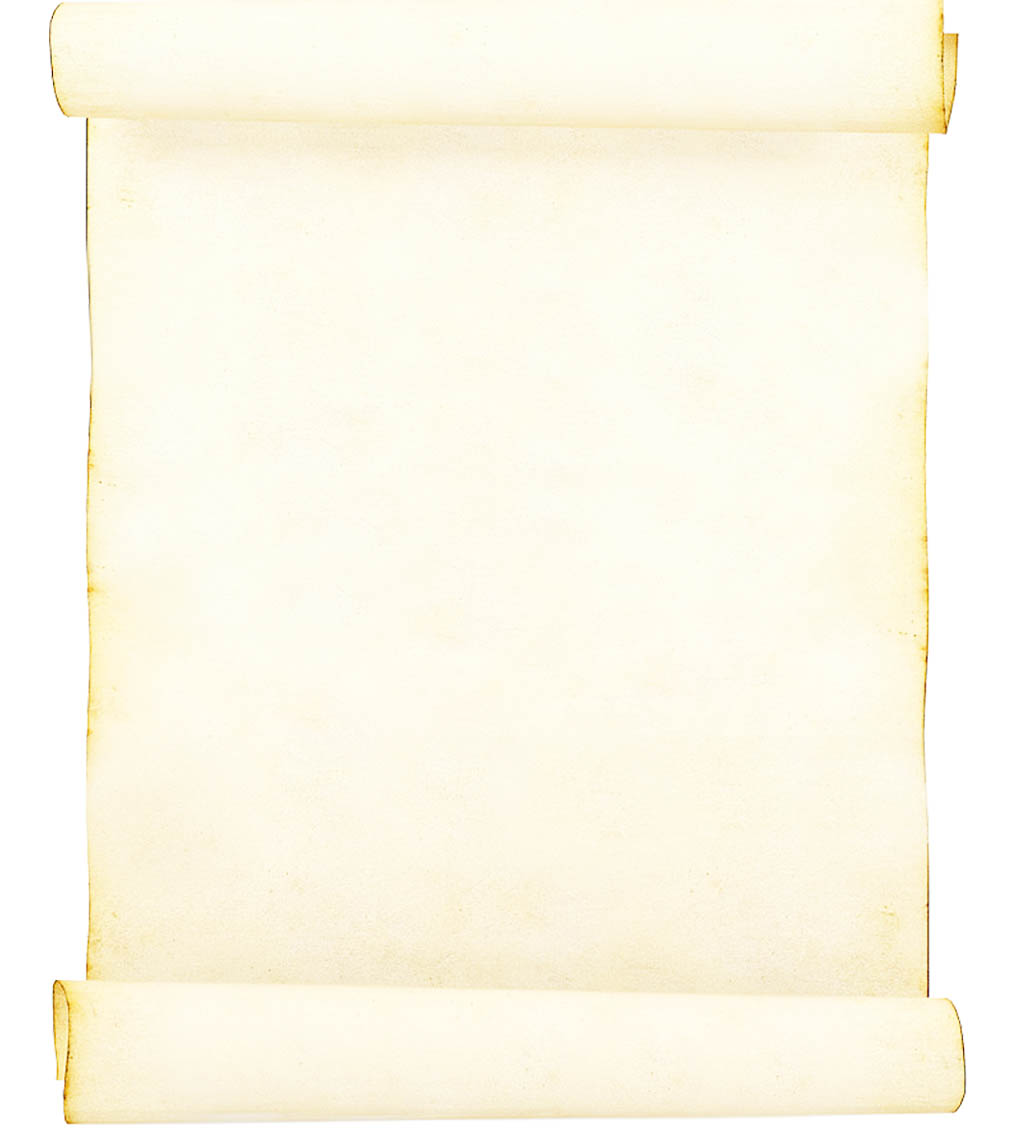
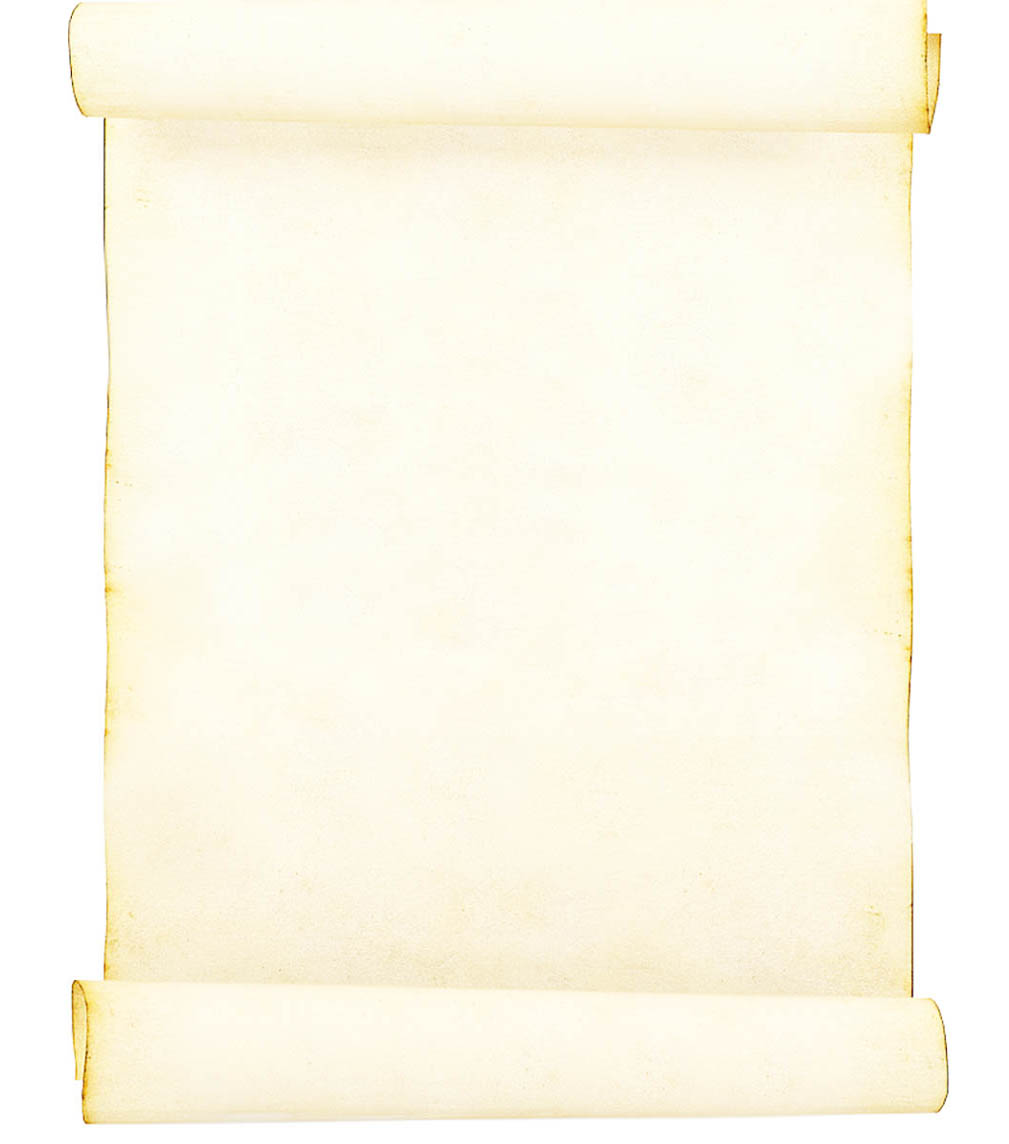
fix letter paper

Changed region(s): [[0.0307, 0.0, 0.1229, 1.0], [0.8603, 0.2753, 0.9832, 0.979], [0.891, 0.0, 0.9524, 0.2448]]

diff --git a/module_07/21_model_of_persuasive_writing.html b/module_07/21_model_of_persuasive_writing.html
@@ -43,15 +43,15 @@
       <div class="col-sm-12 content">
         <h1>Model of Persuasive Writing</h1>
         <p>This business student has written a persuasive letter. Read the letter and note what makes it persuasive. Check your response by clicking on the <i class="fa fa-eye" aria-hidden="true" title="eye"></i> icons.</p>
-        <div style="background: url(images/letter.jpg) no-repeat center; padding-top: 90px; padding-left: 60px;padding-right: 60px;padding-bottom: 120px;">
+        <div style="background: url(images/letter.jpg) no-repeat center; padding-top: 90px; padding-left: 70px;padding-right: 70px;padding-bottom: 120px;">
 		  <p>To the decision-makers and game-changers at Tim Hortons: I am writing to propose an improvement to the “Roll Up The Rim” promotion your coffee company is currently running. As you may be aware, coffee is the number one beverage of choice in Canada (Coffee Facts, 2016, para 1). Canadians may love their coffee, but nobody likes losing; and one thing that frequently leaves a bitter aftertaste is rolling up the rim to see “Please Play Again”. <a data-toggle="tooltip" title="The introductory paragraph is effective because it establishes a specific problem that the writer intends to resolve."><i class="fas fa-eye text-third"></i></a> I propose <a data-toggle="tooltip" title="This use of the “thinking I” is credible because it is direct and professional."><i class="fas fa-eye text-third"></i></a> that you consider revising your existing rules to allow your customers the opportunity to trade in 5 “Please Play Again” cups (whole cups, not just tabs) in exchange for a free timbit. I believe <a data-toggle="tooltip" title="Perhaps this use of the “feeling I” could have been removed. The sentence might have been more convincing if it began “This amendment will...”"><i class="fas fa-eye text-third"></i></a> that this amendment will not only benefit your company, but your customers and the environment as well.</p>
 		  <p>Your company is a model of success, and although your CEO may not be sitting in the board room agonizing over how to attract more customers, I do think he might want to consider how this promotion makes your existing customers feel. Happy customers are loyal customers, and by allowing them to redeem 5 otherwise losing cups to earn a free timbit, will not only ensure their taste buds are tickled, it may help to form new dining habits that last long after the promotion is finished. When one considers the long-term advantages to this slight <a data-toggle="tooltip" title="The writer is carefully choosing their words — slight adjustment, minor change — to make their proposal sound manageable."><i class="fas fa-eye text-third"></i></a> adjustment, it is almost certain that Tim Hortons will benefit from this minor change.</p>
 		  <p>Your customer base also stands to benefit. <a data-toggle="tooltip" title="This topic sentence is a good example of being concise. The direct approach would likely be appreciated by its intended audience, Tim Hortons executives."><i class="fas fa-eye text-third"></i></a> No longer will “Please Play Again” be followed by disappointment. Instead, your valuable customers will have a sense of ownership over their “win” because they will have the opportunity to work for it by collecting the required 5 cups in exchange for a timbit. It is a small shift that takes the sting out of a losing cup, and will make your customers feel like every cup has the potential to be a winner.</p>
 		  <p>The environment will win as a result of these changes. Take a look around; Tim Horton’s coffee cups are a large source of litter in our cities, parks and highways. In addition, many municipalities do not currently offer recycling of coffee cups and many are forced to be sent to landfill instead of recycling facilities. (CBC News, 2016, para 1). <a data-toggle="tooltip" title="The credibility of this argument is strengthened by these references to reliable news sources and the logical conclusions that the writer draws from them."><i class="fas fa-eye text-third"></i></a> If Tim Hortons salvaged even a small percentage of their coffee cups, these cups could then be sent to the proper facilities for recycling. </p>
 		  <p>This simple change has the potential to make a big difference. Not only will your company benefit financially from the continued loyalty of your happy customers, the environment will be helped by the re-channelling of used cups to proper facilities for recycling. All this, for the cost of a .20 cent timbit, simply reconfirms that small things can create big changes.<a data-toggle="tooltip" title="This conclusion is effective because it reinforces the cause and effect logic of the argument, while simultaneously appealing to the reader’s emotions."><i class="fas fa-eye text-third"></i></a></p>
 		  <p><strong>References</strong><br>
-       		CBC News. (2016) Coffee Cups Among Many Items You Can’t Recycle, City Says. Retrieved March 6, 2017, from <a href="http://www.cbc.ca/news/canada/toronto/-programs/metromorning/recycling-campaign-1.3645025" target="_blank">http://www.cbc.ca/news/canada/toronto/-programs/metromorning/recycling-campaign-1.3645025</a><br>
-       		Coffee Facts. (2016). Retrieved March 6, 2017, from <a href="https://www.coffeeassoc.-com/coffee-facts/" target="_blank">https://www.coffeeassoc.-com/coffee-facts/</a></p>
+       		CBC News. (2016) Coffee Cups Among Many Items You Can’t Recycle, City Says. Retrieved March 6, 2017, from <a href="http://www.cbc.ca/news/canada/toronto/-programs/metromorning/recycling-campaign-1.3645025" target="_blank">http://www.cbc.ca/news/canada/toronto/-programs/metromorning/recycling-campaign-1.3645025 <i class="fal fa-external-link text-third" aria-hidden="true"></i></a><br>
+       		Coffee Facts. (2016). Retrieved March 6, 2017, from <a href="https://www.coffeeassoc.-com/coffee-facts/" target="_blank">https://www.coffeeassoc.-com/coffee-facts/ <i class="fal fa-external-link text-third" aria-hidden="true"></i></a></p>
         </div>
         
       </div>
